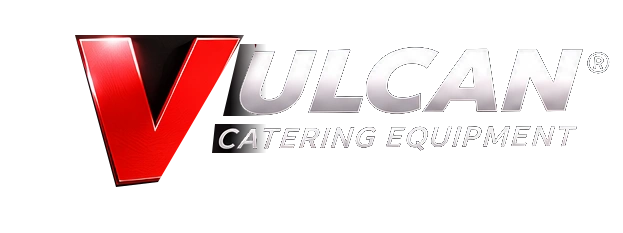
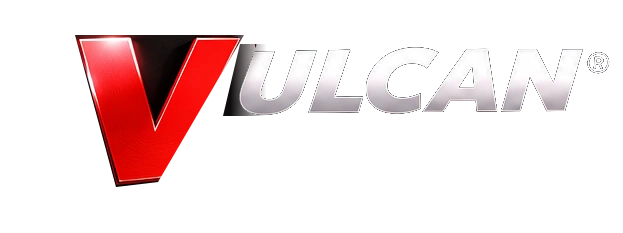
Shorten Original branding to Vulcan

Changed region(s): [[0.3355, 0.5107, 0.9149, 0.6609]]

diff --git a/src/main.tsx b/src/main.tsx
@@ -75,7 +75,7 @@ function EquipmentNavigation() {
 function Wordmark() {
   return <>
     <span className="brand-emblem" aria-hidden="true">V</span>
-    <span><strong>ULCAN</strong><small>CATERING EQUIPMENT</small></span>
+    <strong>ULCAN</strong>
   </>
 }
 
@@ -128,7 +128,7 @@ function KitchenHero() {
 
   return <section className="home-hero original-home-hero" aria-labelledby="hero-brand">
     <header className="original-home-header" ref={header}>
-      <h1 className="wordmark hero-brand" id="hero-brand" aria-label="Vulcan Catering Equipment">
+      <h1 className="wordmark hero-brand" id="hero-brand" aria-label="Vulcan">
         <img ref={wordmark} src={`${import.meta.env.BASE_URL}artwork/vulcan-wordmark-clean.webp`} alt="" width={623} height={233} />
       </h1>
       <div className="hero-nav"><EquipmentNavigation /></div>
@@ -240,7 +240,7 @@ function App() {
     <a className="skip" href="#main">Skip to content</a>
     {!home && <header className="top">
       <div className="shell header-row">
-        <Link className="wordmark" to="/" aria-label="Vulcan Catering Equipment home"><Wordmark /></Link>
+        <Link className="wordmark" to="/" aria-label="Vulcan home"><Wordmark /></Link>
         <EquipmentNavigation />
       </div>
     </header>}

diff --git a/src/Catalogue.tsx b/src/Catalogue.tsx
@@ -298,7 +298,7 @@ export function Catalogue() {
   const brandPath = byType ? typePath : brand ? `${divisionPath}/${brand.id}` : divisionPath
   const categoryPath = category ? `${brandPath}/${category.id}` : brandPath
   const missing = Boolean((divisionId && !division) || (brandId && !brand && !byType) || (byType && !category) || (categoryId && !category) || (productId && !product))
-  const title = missing ? 'Catalogue page unavailable' : product?.name ?? category?.name ?? brand?.name ?? division?.name ?? 'Vulcan Equipment'
+  const title = missing ? 'Catalogue page unavailable' : product?.name ?? category?.name ?? brand?.name ?? division?.name ?? 'Vulcan'
   const listSearch = product ? state?.listSearch ?? '' : search
   const parent = product ? { pathname: categoryPath, search: listSearch } : byType || brand && !category ? divisionPath : category ? brandPath : root
   const productBrand = product && division?.brands.find(item => item.id === product.brand)

diff --git a/index.html b/index.html
@@ -8,7 +8,7 @@
 <link rel="manifest" href="/manifest.webmanifest" />
 <link rel="apple-touch-icon" href="/app-180.png" />
 <meta name="apple-mobile-web-app-title" content="Vulcan Original" />
-<title>Vulcan | Equipment Experience</title>
+<title>Vulcan</title>
 </head>
 <body><div id="root"></div><script type="module" src="/src/main.tsx"></script></body>
 </html>
